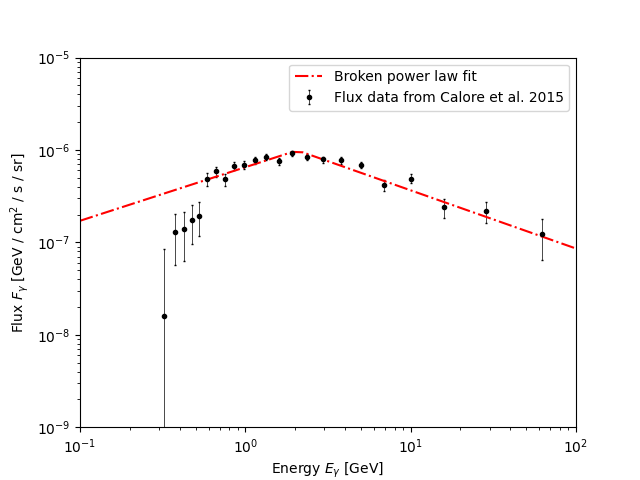
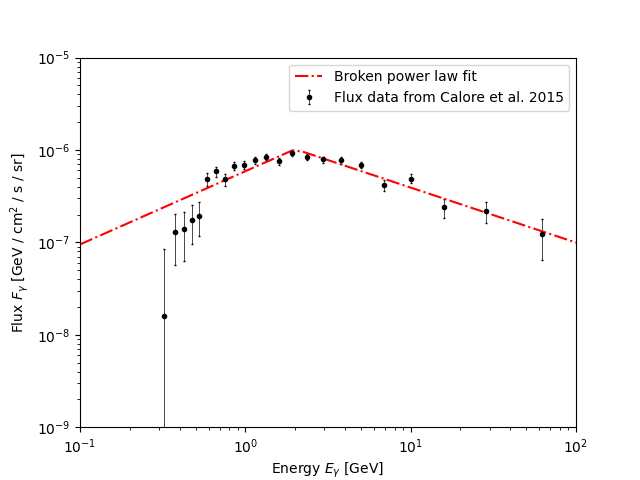
flux stuff to be fixed

diff --git a/Flux/flux.py b/Flux/flux.py
@@ -15,7 +15,7 @@ from iminuit.cost import LeastSquares
 import sys
 sys.path.insert(0, '/home/lorenzo/GCE-and-MSPs/toolbox')
 from tools import cmtokpc, log_scale_int, GeVtoerg
-from gce import  broken_pl_arr, broken_pl
+from gce import  *
 #from jacobi import propagate
 import os
 
@@ -68,19 +68,20 @@ class Data(object):
 
 
 d = Data() 
-
+spec = np.divide(d.flux, d.emeans)
 #****************************************************************
 #Fit with a broken power law
 l = LeastSquares(d.emeans, d.flux, d.full_sigma , broken_pl_arr) 
 m = Minuit(l, 1.0e-6, 2.06, -0.58, 0.63, name=("F_0", "E_b", "n1", "n2" )) #following Dinsmore2022 notation
 
-m.fixed["E_b", "n1", "n2"] = True
+m.fixed["E_b", "n1", "n2"] = False
 
 m.migrad()
 m.hesse()
 
 m.values[2], m.values[3] = m.values[2]+2 , m.values[3]+2  #to be better compared with Dinsmore values
-f.write('Fit parameters:'), f.write('\n')
+f.write('Broken Power Law results\n')
+f.write('Flux fit parameters (BPL):'), f.write('\n')
 for key, value, error in zip(m.parameters, m.values, m.errors):
     line = [str(key), ' = ', str(value), ' +- ', str(error), '\n']
     for i in line: f.write(i)
@@ -96,6 +97,34 @@ fluxres1 =["Flux (in sr units): \nF_Omega =" , str(I[0]), " [GeV/cm^2/s/sr] = ",
 fluxres2 =["Flux: \nF =" , str(I[0]*ang_norm) , " [GeV/cm^2/s] = ", str(GeVtoerg(I[0])*ang_norm) , "[erg/cm^2/s]"]
 for i in fluxres1: f.write(i)
 for i in fluxres2: f.write(i)
+
+#****************************************************************
+#Fit with a power law (with exp cut)
+l = LeastSquares(d.emeans, d.flux, d.full_sigma , power_law) 
+m2 = Minuit(l, 1.0, 2.0 ,3.0e-7,  name=("alpha", "E_c", "norm" )) #following Dinsmore2022 notation
+
+#m.fixed["E_b", "n1", "n2"] = False
+
+m2.migrad()
+m2.hesse()
+f.write('\n************************************************* \n \n')
+f.write('Power Law (exp cutoff) results\n')
+f.write('Flux fit parameters (PL - exp. cut):'), f.write('\n')
+for key, value, error in zip(m2.parameters, m2.values, m2.errors):
+    line = [str(key), ' = ', str(value), ' +- ', str(error), '\n']
+    for i in line: f.write(i)
+#y, ycov = propagate(lambda norm, xb, n1, n2: broken_pl(d.emeans, norm, xb, n1, n2)[1], m.values, m.covariance)
+#****************************************************************
+#Calculation of the total flux
+I = log_scale_int(power_law, e_min, e_max, tuple(m2.values),inf_approx, abs_err, rel_err, div_numb)
+#I = integrate.quad(broken_pl, e_min, e_max, args=tuple(m.values), epsabs = abs_err, epsrel = rel_err, limit=div_numb)
+#print(I[0], "  ", I[1])
+f.write('--------------------------------------------------------\n\n')
+fluxres1 =["Flux (in sr units): \nF_Omega =" , str(I[0]), " [GeV/cm^2/s/sr] = ", str(GeVtoerg(I[0])) , "[erg/cm^2/s/sr]", '\n']
+fluxres2 =["Flux: \nF =" , str(I[0]*ang_norm) , " [GeV/cm^2/s] = ", str(GeVtoerg(I[0])*ang_norm) , "[erg/cm^2/s]"]
+for i in fluxres1: f.write(i)
+for i in fluxres2: f.write(i)
+
 
 #****************************************************************
 #PLOTS
@@ -147,6 +176,56 @@ plt.legend()
 plt.savefig(os.path.join('flux.png'))
 
 #----------------------------------------------------------------------------
+
+
+#****************************************************************
+spec = np.divide(d.flux, np.multiply(d.emeans, d.emeans))
+spec_err = np.divide(d.full_sigma, np.multiply(d.emeans*ang_norm, d.emeans))
+
+#Fit with a broken power law
+l = LeastSquares(d.emeans, spec, spec_err , broken_pl_arr) 
+m2 = Minuit(l, 1.9e-7, 2.5, 1.42, 2.63, name=("K", "E_b", "n1", "n2" )) #following Dinsmore2022 notation
+
+m2.fixed["K", "n1", "n2"] = False
+
+m2.migrad()
+m2.hesse()
+
+#m2.values[2], m2.values[3] = m2.values[2]+2 , m2.values[3]+2  #to be better compared with Dinsmore values
+f.write('\n\n----------------------------------\n')
+f.write('Spectrum fit parameters:'), f.write('\n')
+for key, value, error in zip(m2.parameters, m2.values, m2.errors):
+    line = [str(key), ' = ', str(value), ' +- ', str(error), '\n']
+    for i in line: f.write(i)
+#m2.values[2], m2.values[3] = m2.values[2]-2 , m2.values[3]-2  #go back to fit values
+
+
+#plot
+x_min = 1.0e-1
+x_max = 1.0e2
+y_min = 1.0e-9
+y_max =1.0e-5
+en = np.geomspace(x_min, x_max)
+spec_fit = broken_pl_arr(en, *m2.values)
+fig, ax = plt.subplots()
+
+ax.loglog()
+ax.set_xlim(x_min, x_max)
+ax.set_ylim(y_min, y_max)
+ax.set_xlabel(r'Energy $E_\gamma$ [GeV]')
+ax.set_ylabel(r'Spec dN/dE [$\mathregular{cm^2}$ / s / GeV]')
+
+ax = plt.errorbar(d.emeans,np.multiply(spec,1.0), yerr = spec_err,
+color='black', capsize=1, capthick=1,ls='',
+elinewidth=0.5,marker='o',markersize=3, label='Spectrum')
+
+plt.plot(en, spec_fit, color = "red", ls='-.', label = 'Broken power law fit')
+
+plt.legend()
+
+plt.savefig(os.path.join('spec_bpl.png')) 
+
+
 f.close()
 end_time = time.monotonic()
 print(timedelta(seconds= end_time - start_time))

diff --git a/Lum funct/luminosity_func.py b/Lum funct/luminosity_func.py
@@ -44,7 +44,7 @@ l_max = b_max                      #ROI long. max value
 
 #astronomical constants
 rs = 20            #kpc            #scale radius (gNFW) 
-g = 1.2            #kpc            #gamma-sloper (gNFW) 
+g = 1.2            #kpc            #gamma-slope (gNFW) 
 rc = 8.5           #kpc            #Earth-GC distance
 f_obs = 1.8e-9     #erg s^(-1)     #observed flux 
 
@@ -57,7 +57,7 @@ den = 4* integrate.nquad(sgNRW, [[1.0e-6 , np.infty], [l_min, l_max], [b_min, b_
 #!!! den is given in kpc^-2 !!!!
 r = cmtokpc(cmtokpc(num[0] / den[0] / 4 /np.pi))       #cm^(-2)        #flux/lum ratio
 
-line = ['Flux/Lum ratio: ', '\n','F/L = ', str(r), ' cm^(-2) \n']
+line = ['Flux/Lum ratio: ', '\n','F/Ls = ', str(r), ' cm^(-2) \n']
 for l in line:
     f.write(l)
 
@@ -180,7 +180,7 @@ l_b_nptf = 2.5e34
 norm_nptf= (1-n1_nptf)*(1-n2_nptf) / l_b_nptf / (n1_nptf - n2_nptf)
 p_nptf = []
 
-p_nptf = broken_pl_arr(l, norm_nptf, l_b_nptf, n1_nptf, n2_nptf)
+p_nptf = broken_pl(l, norm_nptf, l_b_nptf, n1_nptf, n2_nptf)
 
 #Search of integral upper bound
 #int_max = 1.0e34
@@ -217,7 +217,7 @@ a = (n1_disk - n2_disk) - (1-n2_disk)*(l_m_disk/l_b_disk)**(1-n1_disk)+ (1-n1_di
 norm_disk = (1-n1_disk)*(1-n2_disk) / l_b_disk / (n1_disk - n2_disk)
 
 
-p_disk = broken_pl_arr(l, norm_disk, l_b_disk, n1_disk, n2_disk)
+p_disk = broken_pl(l, norm_disk, l_b_disk, n1_disk, n2_disk)
 
 
 norm_disk_lim = (1-n1_disk)*(1-n2_disk) / l_b_disk / a

diff --git a/tests/tests.py b/tests/tests.py
@@ -5,8 +5,7 @@ import matplotlib.pyplot as plt
 import scipy.integrate as integrate
 import os
 
-test_numb = 6
-
+test_numb = 2
 #------------------------------------------
 #some usefull constants/bounds
 
